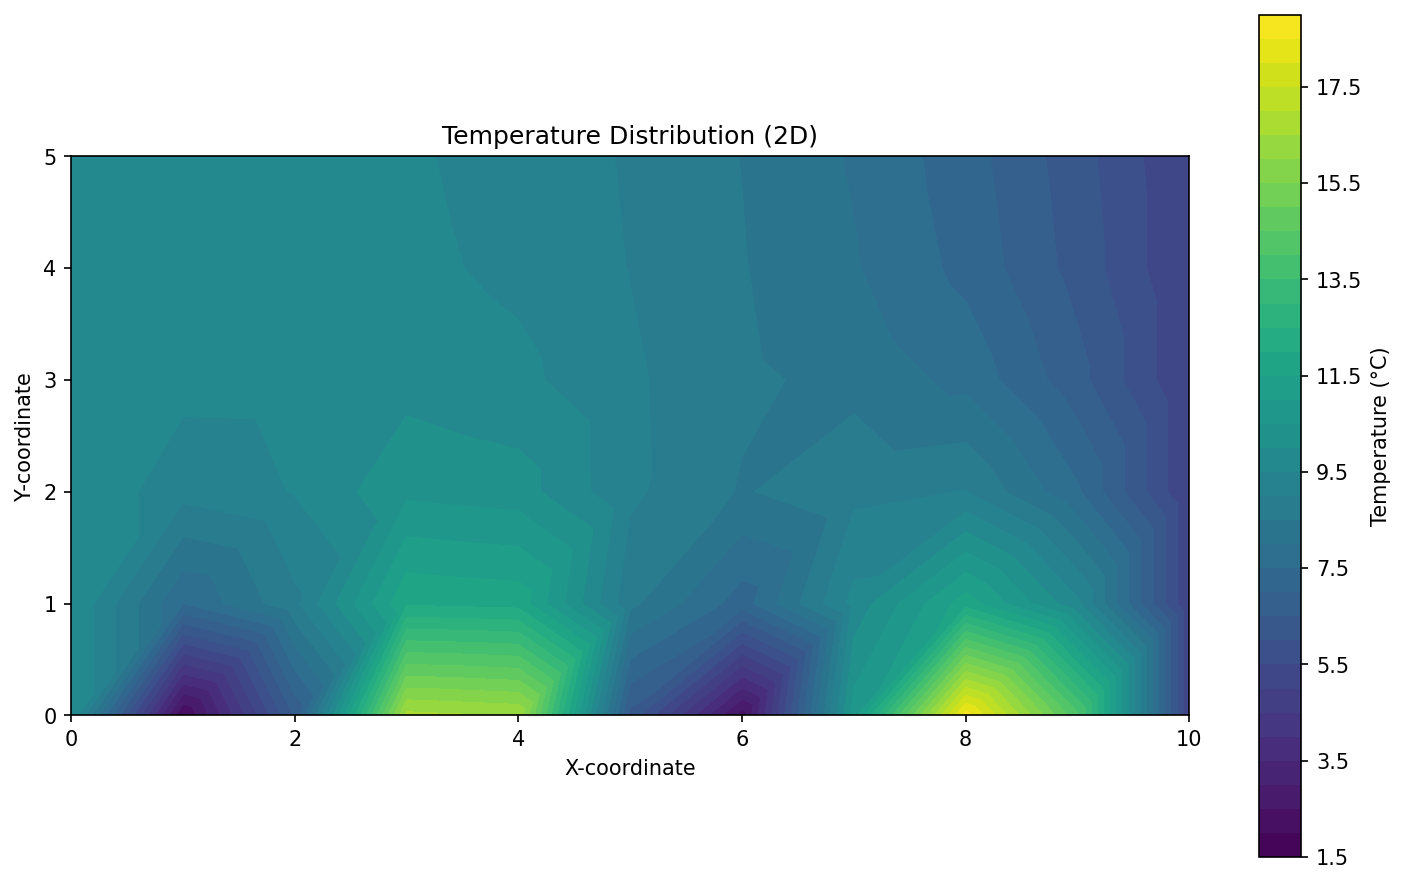
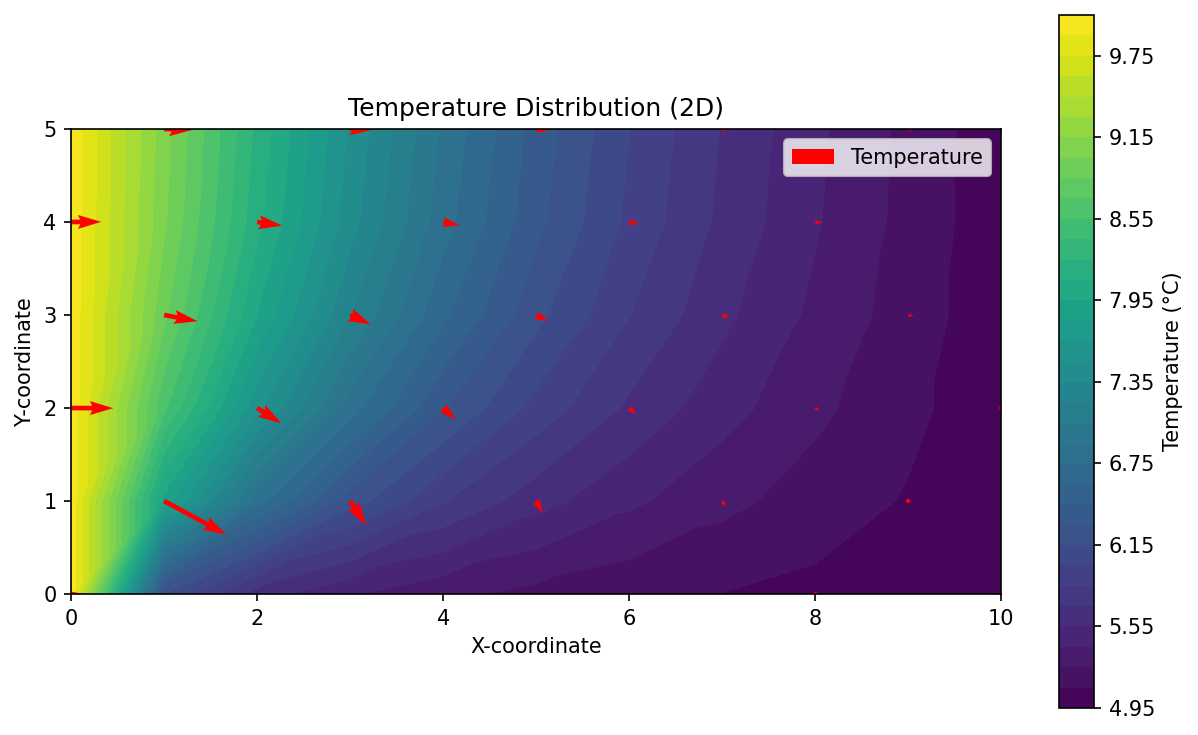
heat flow vector added

diff --git a/SteadyStateThermal/conduction.py b/SteadyStateThermal/conduction.py
@@ -172,65 +172,79 @@ def generate_solution_plot(solution):
     
     # Handle different dimensions
     if coordinates.shape[1] == 1:  # 1D problem
-        # Sort by x-coordinate for proper line plot
         sorted_indices = np.argsort(coordinates[:, 0])
         x_coords = coordinates[sorted_indices, 0]
         y_values = solution_values[sorted_indices]
-        
         plt.plot(x_coords, y_values, 'b-', linewidth=2, marker='o', markersize=4)
         plt.xlabel('X-coordinate')
         plt.ylabel('Temperature (°C)')
         plt.title('Temperature Distribution (1D)')
         plt.grid(True, alpha=0.3)
-        
+        # Heat flow vector (negative gradient)
+        # Use finite difference for gradient
+        grad_T = np.gradient(y_values, x_coords)
+        q = -grad_T  # Heat flux direction
+        # Plot arrows
+        skip = max(1, len(x_coords)//20)
+        plt.quiver(x_coords[::skip], y_values[::skip], q[::skip], np.zeros_like(q[::skip]),
+                   angles='xy', scale_units='xy', scale=1, color='r', width=0.005)
+        plt.legend(['Temperature', 'Heat Flow'])
     elif coordinates.shape[1] == 2:  # 2D problem
         try:
-            # Try using FEniCS plot function first
             c = plot(solution, cmap='viridis')
             plt.colorbar(c, label='Temperature (°C)')
             plt.xlabel('X-coordinate')
             plt.ylabel('Y-coordinate')
             plt.title('Temperature Distribution (2D)')
         except:
-            # Fallback to scatter plot if FEniCS plot fails
             x_coords = coordinates[:, 0]
             y_coords = coordinates[:, 1]
-            
             scatter = plt.scatter(x_coords, y_coords, c=solution_values, 
                                 cmap='viridis', s=50, edgecolors='black', linewidth=0.5)
             plt.colorbar(scatter, label='Temperature (°C)')
             plt.xlabel('X-coordinate')
             plt.ylabel('Y-coordinate')
             plt.title('Temperature Distribution (2D)')
-            
+        # Overlay heat flow vectors
+        V = solution.function_space()
+        mesh = V.mesh()
+        # Interpolate gradient at mesh vertices
+        grad_T = project(grad(solution), VectorFunctionSpace(mesh, 'P', 1))
+        grad_vals = grad_T.compute_vertex_values(mesh)
+        # grad_vals shape: (2*N,) for 2D, where N = number of vertices
+        N = coordinates.shape[0]
+        grad_x = -grad_vals[:N]  # negative gradient (heat flow x)
+        grad_y = -grad_vals[N:]  # negative gradient (heat flow y)
+        skip = max(1, N//30)
+        plt.quiver(coordinates[::skip, 0], coordinates[::skip, 1], grad_x[::skip], grad_y[::skip],
+                   color='r', scale=30, width=0.005)
+        plt.legend(['Temperature', 'Heat Flow'])
     elif coordinates.shape[1] == 3:  # 3D problem
-        # For 3D, create a 2D projection or slice
         x_coords = coordinates[:, 0]
         y_coords = coordinates[:, 1]
         z_coords = coordinates[:, 2]
-        
-        # Create a scatter plot of the z=0 slice or middle slice
         z_middle = (z_coords.min() + z_coords.max()) / 2
         tolerance = (z_coords.max() - z_coords.min()) * 0.1
-        
         mask = np.abs(z_coords - z_middle) < tolerance
-        if np.sum(mask) > 0:
-            scatter = plt.scatter(x_coords[mask], y_coords[mask], c=solution_values[mask], 
-                                cmap='viridis', s=50, edgecolors='black', linewidth=0.5)
-            plt.colorbar(scatter, label='Temperature (°C)')
-            plt.xlabel('X-coordinate')
-            plt.ylabel('Y-coordinate')
-            plt.title(f'Temperature Distribution (3D slice at z≈{z_middle:.3f})')
-        else:
-            # Fallback: plot all points
-            scatter = plt.scatter(x_coords, y_coords, c=solution_values, 
-                                cmap='viridis', s=30, alpha=0.6)
-            plt.colorbar(scatter, label='Temperature (°C)')
-            plt.xlabel('X-coordinate')
-            plt.ylabel('Y-coordinate')
-            plt.title('Temperature Distribution (3D - all points)')
-    
-    plt.tight_layout()
+        scatter = plt.scatter(x_coords[mask], y_coords[mask], c=solution_values[mask], 
+                            cmap='viridis', s=50, edgecolors='black', linewidth=0.5)
+        plt.colorbar(scatter, label='Temperature (°C)')
+        plt.xlabel('X-coordinate')
+        plt.ylabel('Y-coordinate')
+        plt.title(f'Temperature Distribution (3D slice at z≈{z_middle:.3f})')
+        # Overlay heat flow vectors on slice
+        V = solution.function_space()
+        mesh = V.mesh()
+        grad_T = project(grad(solution), VectorFunctionSpace(mesh, 'P', 1))
+        grad_vals = grad_T.compute_vertex_values(mesh)
+        N = coordinates.shape[0]
+        grad_x = -grad_vals[:N]
+        grad_y = -grad_vals[N:2*N]
+        grad_z = -grad_vals[2*N:]
+        skip = max(1, np.sum(mask)//30)
+        plt.quiver(x_coords[mask][::skip], y_coords[mask][::skip], grad_x[mask][::skip], grad_y[mask][::skip],
+                   color='r', scale=30, width=0.005)
+        plt.legend(['Temperature', 'Heat Flow'])
     
     if not os.path.exists(STATIC_DIR):
         os.makedirs(STATIC_DIR)
